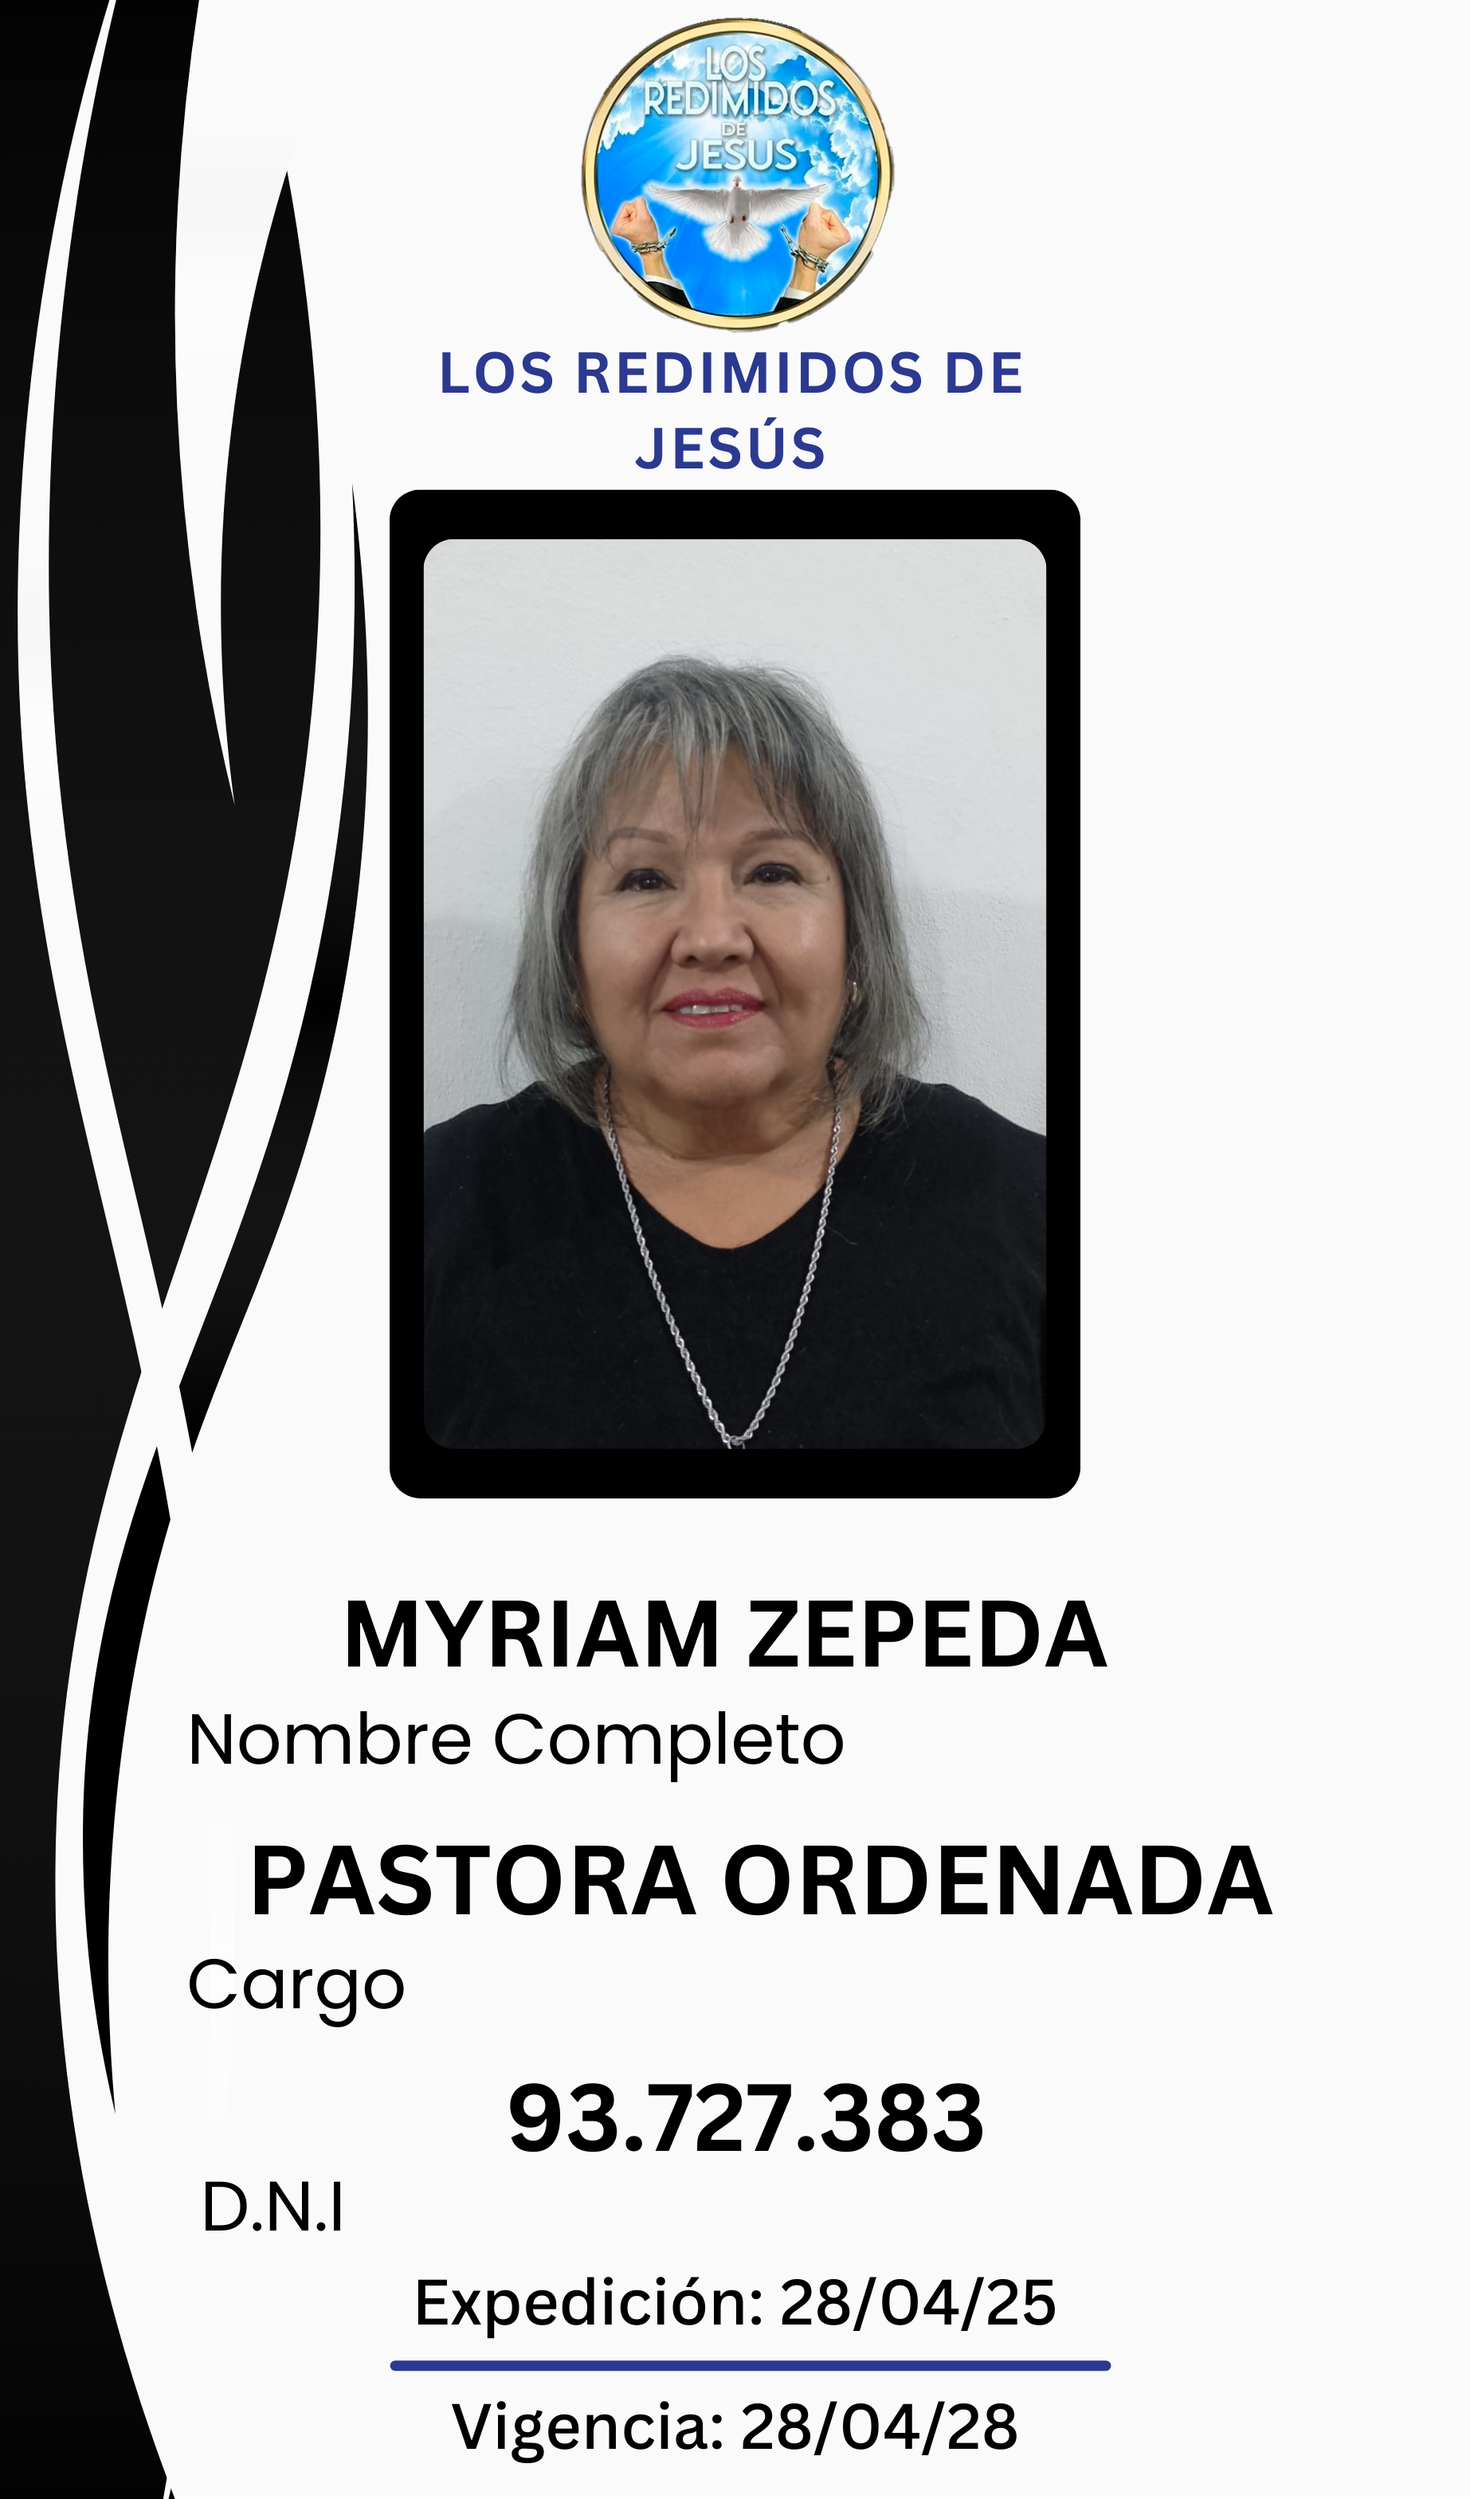
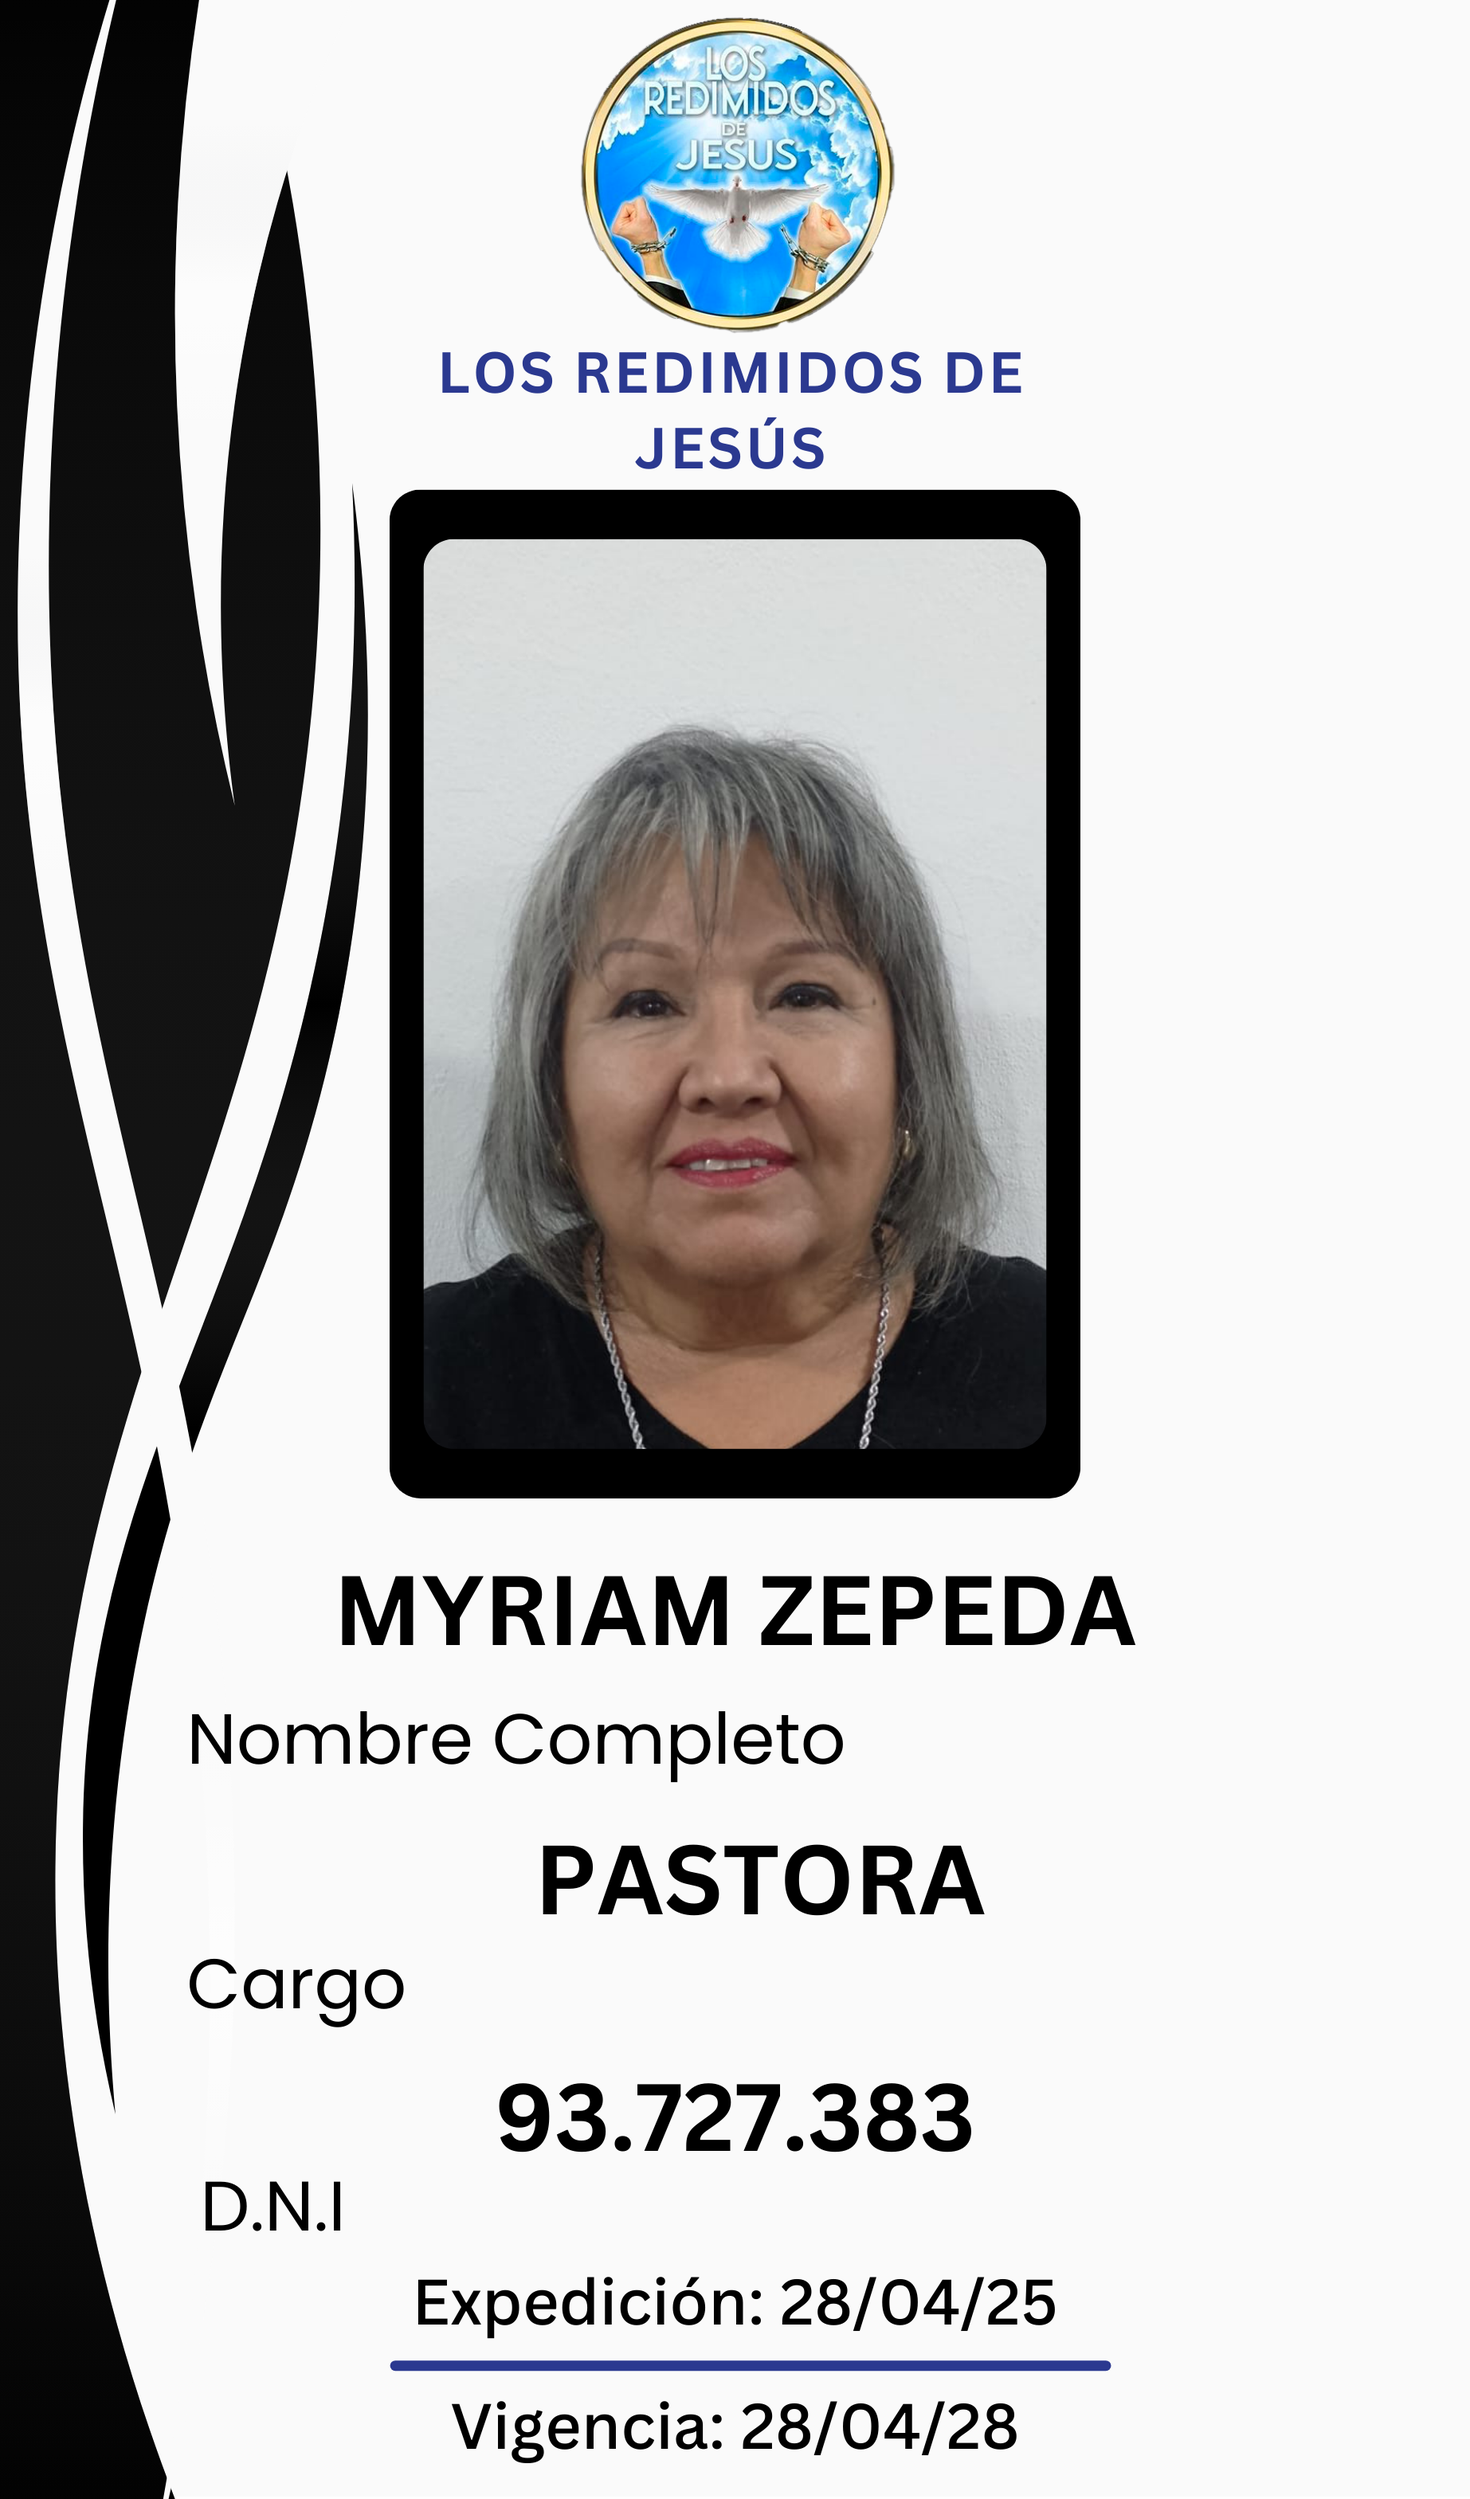
nuevas credenciales miercoles

diff --git a/searchengine.html b/searchengine.html
@@ -97,10 +97,18 @@
                 frontImage: 'image/mariana1.png',
                 backImage: 'image/mariana2.png',
                 title: 'Mariana Moreno',
-                title2: 'Pastora ordenada',
+                title2: 'Pastora',
             },
             {
                 id: 5,
+                coverImage: 'image/ramonaportada.png',
+                frontImage: 'image/ramona1.png',
+                backImage: 'image/mariana2.png',
+                title: 'Ramona Teresa monzón',
+                title2: 'Pastora',
+            },
+            {
+                id: 6,
                 coverImage: 'image/martaportada.png',
                 frontImage: 'image/marta1.png',
                 backImage: 'image/marta2.png',
@@ -108,7 +116,7 @@
                 title2: 'Evangelista',
             },
             {
-                id: 6,
+                id: 7,
                 coverImage: 'image/pachecoportada.png',
                 frontImage: 'image/pacheco1.png',
                 backImage: 'image/pacheco2.png',
@@ -116,7 +124,7 @@
                 title2: 'Evangelista',
             },
             {
-                id: 7,
+                id: 8,
                 coverImage: 'image/susanaportada.png',
                 frontImage: 'image/susana1.png',
                 backImage: 'image/susana2.png',
@@ -124,7 +132,7 @@
                 title2: 'Diaconisa',
             },
             {
-                id: 8,
+                id: 9,
                 coverImage: 'image/noeliaportada.png',
                 frontImage: 'image/noelia1.png',
                 backImage: 'image/noelia2.png',
@@ -132,7 +140,7 @@
                 title2: 'Anciana',
             },
             {
-                id: 9,
+                id: 10,
                 coverImage: 'image/marianoportada.png',
                 frontImage: 'image/mariano1.png',
                 backImage: 'image/mariano2.png',
@@ -140,7 +148,7 @@
                 title2: 'Anciano',
             },
             {
-                id: 10,
+                id: 11,
                 coverImage: 'image/saraportada.png',
                 frontImage: 'image/sara1.png',
                 backImage: 'image/sara2.png',
@@ -148,7 +156,7 @@
                 title2: 'Anciana',
             },
             {
-                id: 11,
+                id: 12,
                 coverImage: 'image/andresportada.png',
                 frontImage: 'image/andres1.png',
                 backImage: 'image/andres2.png',
@@ -156,7 +164,7 @@
                 title2: 'Pastor',
             },
             {
-                id: 12,
+                id: 13,
                 coverImage: 'image/lauraportada.png',
                 frontImage: 'image/laura1.png',
                 backImage: 'image/laura2.png',
@@ -164,7 +172,7 @@
                 title2: 'Anciana',
             },
             {
-                id: 13,
+                id: 14,
                 coverImage: 'image/orlandoportada.png',
                 frontImage: 'image/orlando1.png',
                 backImage: 'image/orlando2.png',
@@ -172,7 +180,7 @@
                 title2: 'Evangelista',
             },
             {
-                id: 14,
+                id: 15,
                 coverImage: 'image/carolinaportada.png',
                 frontImage: 'image/carolina1.png',
                 backImage: 'image/carolina2.png',
@@ -180,31 +188,31 @@
                 title2: 'Anciana',
             },
             {
-                id: 15,
+                id: 16,
                 coverImage: 'image/carmenargentoportada.png',
                 frontImage: 'image/carmen1.png',
                 backImage: 'image/carmen2.png',
                 title: 'Estela Carmen Argento',
-                title2: 'Pastora de obra',
+                title2: 'Pastora',
             },
             {
-                id: 16,
+                id: 17,
                 coverImage: 'image/teresaportada.png',
                 frontImage: 'image/teresa1.png',
                 backImage: 'image/teresa2.png',
                 title: 'María Teresa Castañón',
-                title2: 'Pastora de obra',
+                title2: 'Pastora',
             },
             {
-                id: 17,
+                id: 18,
                 coverImage: 'image/carlosportada.png',
                 frontImage: 'image/carlos1.png',
                 backImage: 'image/carlos2.png',
                 title: 'Juan Carlos sabatino',
-                title2: 'Pastor',
+                title2: 'Pastor Ordenado',
             },
             {
-                id: 18,
+                id: 19,
                 coverImage: 'image/aliciaLportada.png',
                 frontImage: 'image/aliciaL1.png',
                 backImage: 'image/aliciaL2.png',
@@ -212,23 +220,23 @@
                 title2: 'Pastora',
             },
             {
-                id: 19,
+                id: 20,
                 coverImage: 'image/jorgeportada.png',
                 frontImage: 'image/jorge1.png',
                 backImage: 'image/jorge2.png',
                 title: 'Jorge Toba',
-                title2: 'Pastor de obra',
+                title2: 'Pastor Ordenado',
             },
             {
-                id: 20,
+                id: 21,
                 coverImage: 'image/karinaportada.png',
                 frontImage: 'image/karina1.png',
                 backImage: 'image/karina2.png',
                 title: 'Karina Susana Troncoso',
-                title2: 'Pastora de obra',
+                title2: 'Pastora',
             },
             {
-                id: 21,
+                id: 22,
                 coverImage: 'image/albertoportada.png',
                 frontImage: 'image/alberto1.png',
                 backImage: 'image/alberto2.png',
@@ -236,15 +244,15 @@
                 title2: 'Pastor de obra',
             },
             {
-                id: 22,
+                id: 23,
                 coverImage: 'image/Sabrinaportada.png',
                 frontImage: 'image/sabrina1.png',
                 backImage: 'image/sabrina2.png',
                 title: 'Sabrina Noemi Alegre',
-                title2: 'Pastora de obra',
+                title2: 'Pastora',
             },
             {
-                id: 23,
+                id: 24,
                 coverImage: 'image/danielportada.png',
                 frontImage: 'image/daniel1.png',
                 backImage: 'image/daniel2.png',
@@ -252,12 +260,12 @@
                 title2: 'Pastor Ordenado',
             },
             {
-                id: 24,
+                id: 25,
                 coverImage: 'image/myriamportada.png',
                 frontImage: 'image/myriam1.png',
                 backImage: 'image/myriam2.png',
                 title: 'Myriam Zepeda',
-                title2: 'Pastora Ordenada',
+                title2: 'Pastora',
             },
             
         ];
